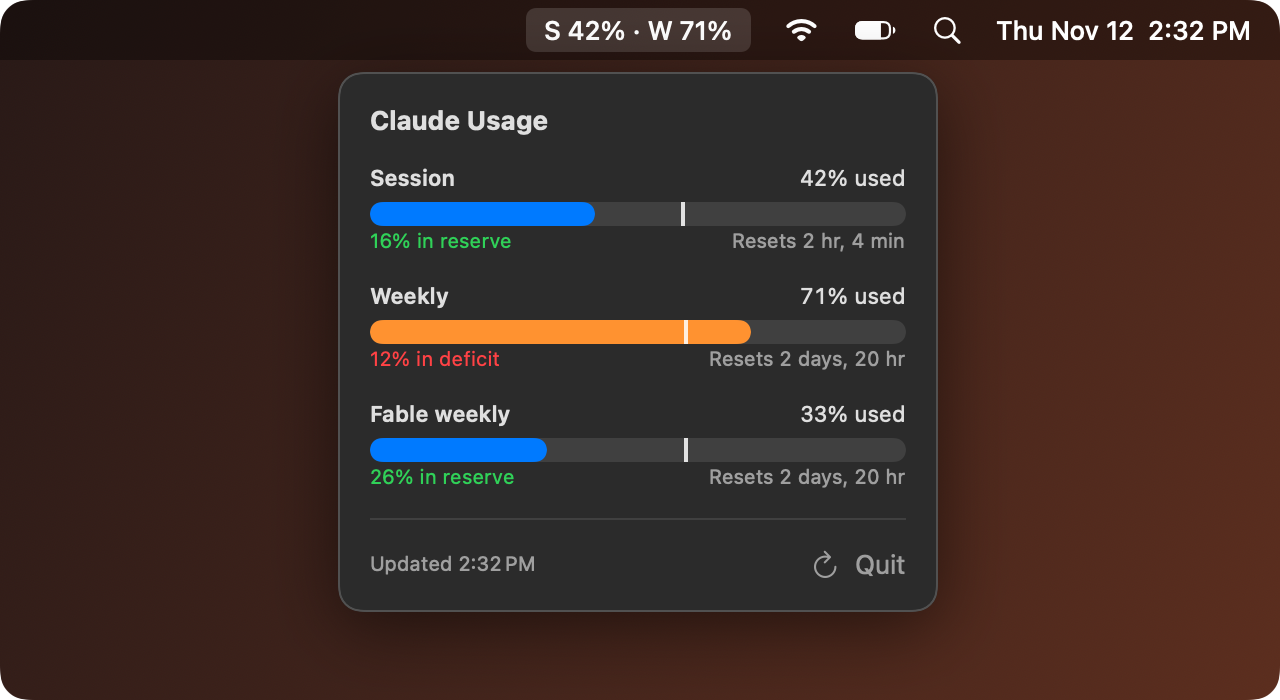
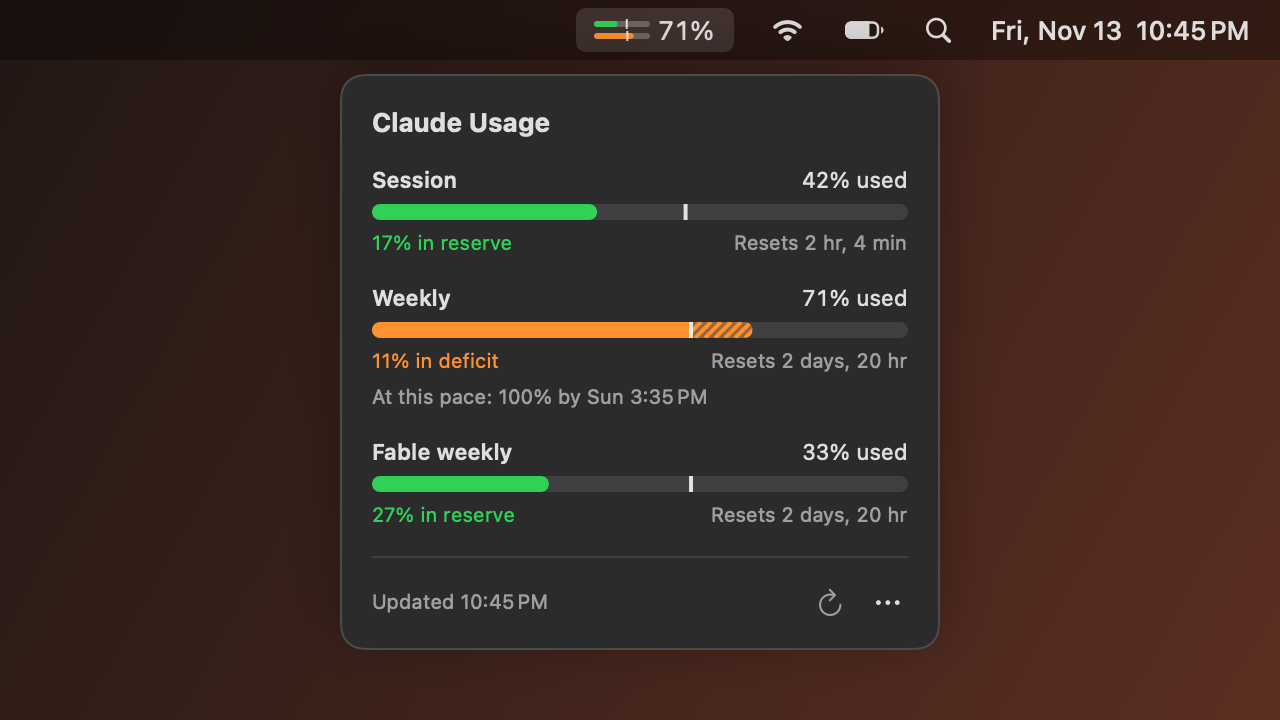
Update README screenshots for the new menu bar label and panel

diff --git a/README.md b/README.md
@@ -10,7 +10,7 @@
 
 <picture>
   <source media="(prefers-color-scheme: dark)" srcset="docs/hero-dark.png">
-  <img alt="ClaudeBar's menu bar label (S 42% · W 71%) with its usage panel open, showing session, weekly and Fable weekly bars with pace markers" src="docs/hero-light.png" width="640">
+  <img alt="ClaudeBar's menu bar label (pace-coloured session and weekly mini bars, 71%) with its usage panel open, showing session, weekly and Fable weekly bars with pace markers, a hatched weekly overage and a projection line" src="docs/hero-light.png" width="640">
 </picture>
 
 </div>
